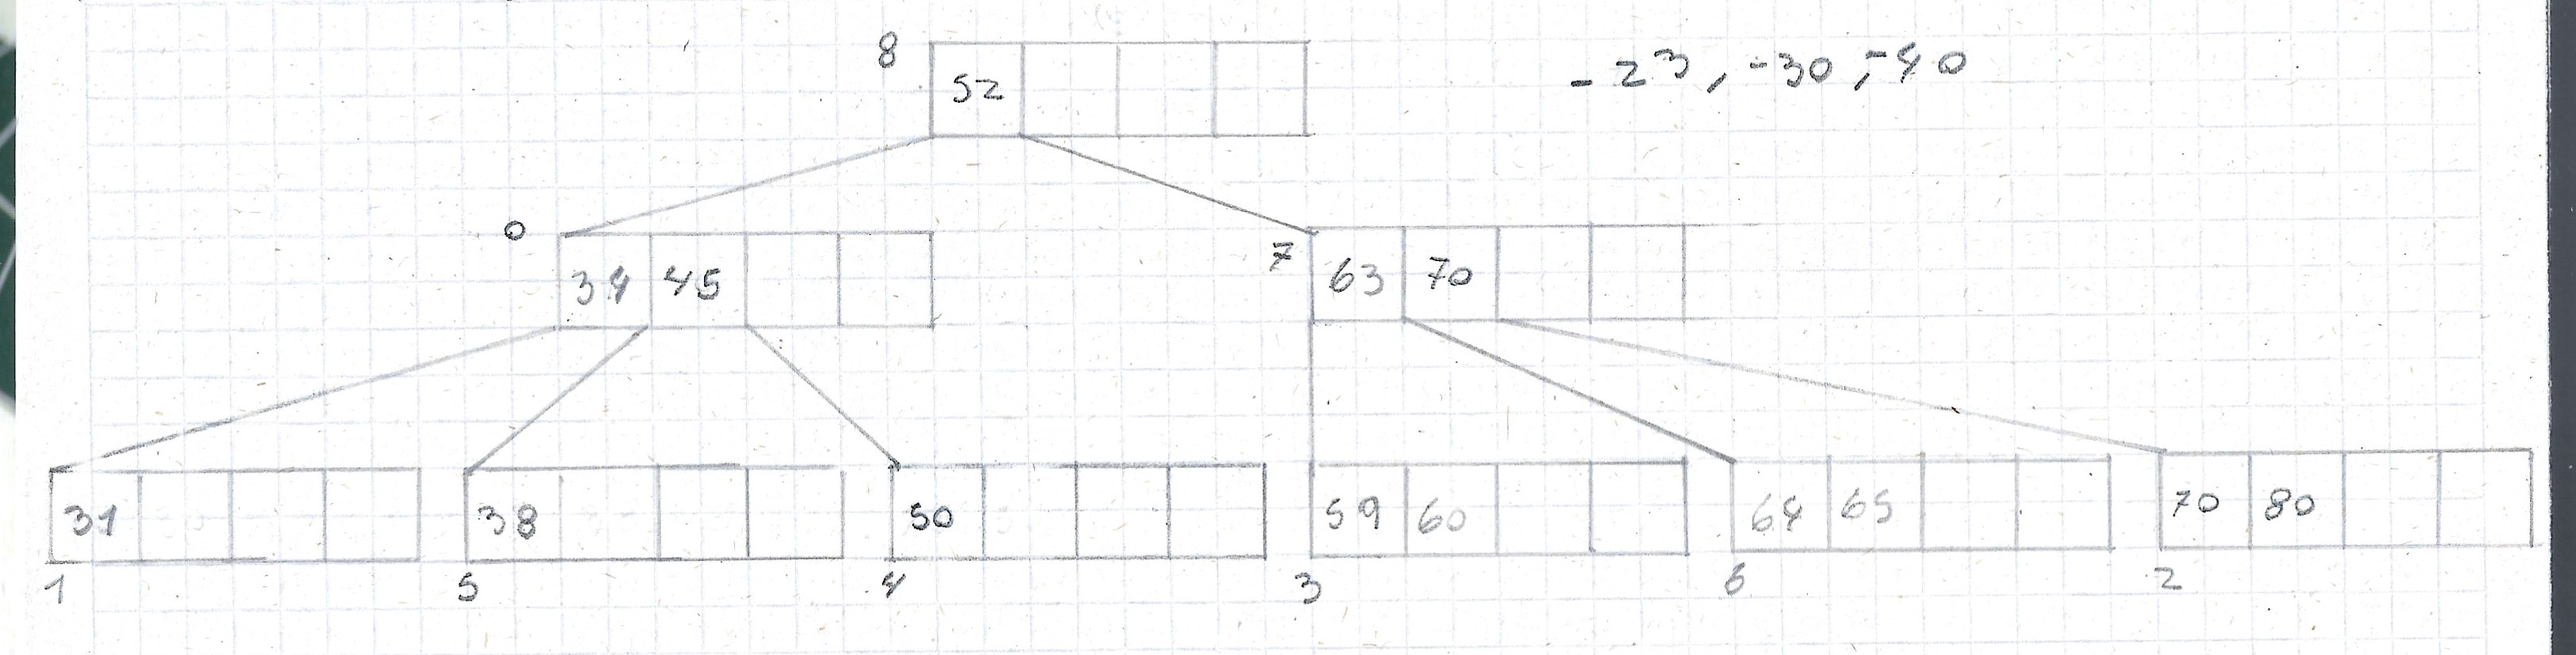
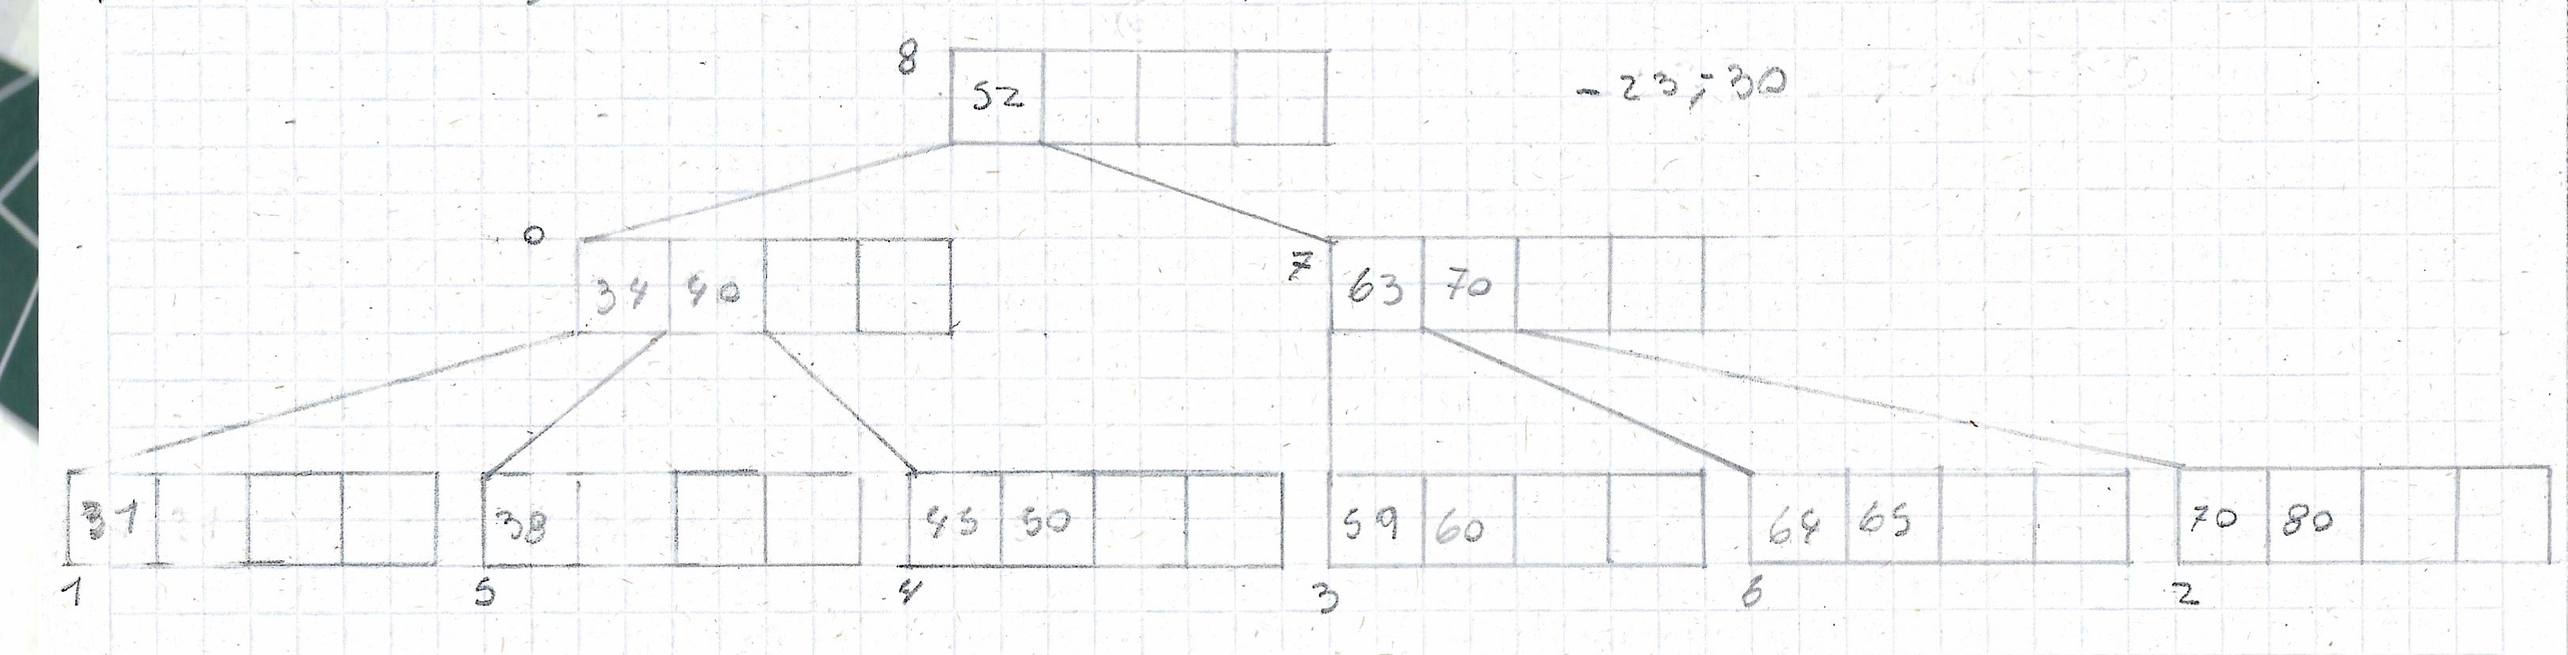
arboles

diff --git a/Documentos/Practicas/Practica4.md b/Documentos/Practicas/Practica4.md
@@ -534,7 +534,7 @@ Política de resolución de underflows: izquierda.
 
 
 
-<details>
+<details open>
 <summary>📖 Resolución</summary><blockquote>
 <br/>
 
@@ -542,7 +542,15 @@ Política de resolución de underflows: izquierda.
 
 ![2](https://user-images.githubusercontent.com/55964635/168497245-3c086957-40e5-4cea-a8f6-d55a239c010b.jpg)
 
-![3](https://user-images.githubusercontent.com/55964635/168497401-982e9aad-f9b2-415f-a1e9-e84f33649f7e.jpg)
+![3](https://user-images.githubusercontent.com/55964635/168721529-2efd88b4-700d-4714-904c-ff40af292f0b.jpg)
+
+![4](https://user-images.githubusercontent.com/55964635/168723236-7ba95fc7-1bec-4027-9a16-832263ba4152.jpg)
+
+![5](https://user-images.githubusercontent.com/55964635/168724496-e9b9b73d-e196-4ff2-97b8-1fae95ecf229.jpg)
+
+![6](https://user-images.githubusercontent.com/55964635/168727731-f8ae2dff-613d-42cb-b16f-a446c1c843ee.jpg)
+
+No sabria como restar el `-38`
 
 </details>
 
@@ -589,6 +597,13 @@ Política de resolución de underflows: derecha.
 
                      2: 0 (66) 1
     0: (23)(45) 1                   1: (66) (67) (89)
+
+<details>
+
+<summary>📖 Resolución</summary><blockquote>
+<br/>
+
+</details>
 
 `16)` Dada las siguientes operaciones, mostrar la construcción paso a paso de un árbol B+ de orden 4:
 
@@ -762,3 +777,4 @@ Operaciones: +250, -300, -40
 - nodo 9: 4 h(210)(220)(230)(240)->1
 - nodo 1: 2 h(400)(500)-> -1
 ```
+
